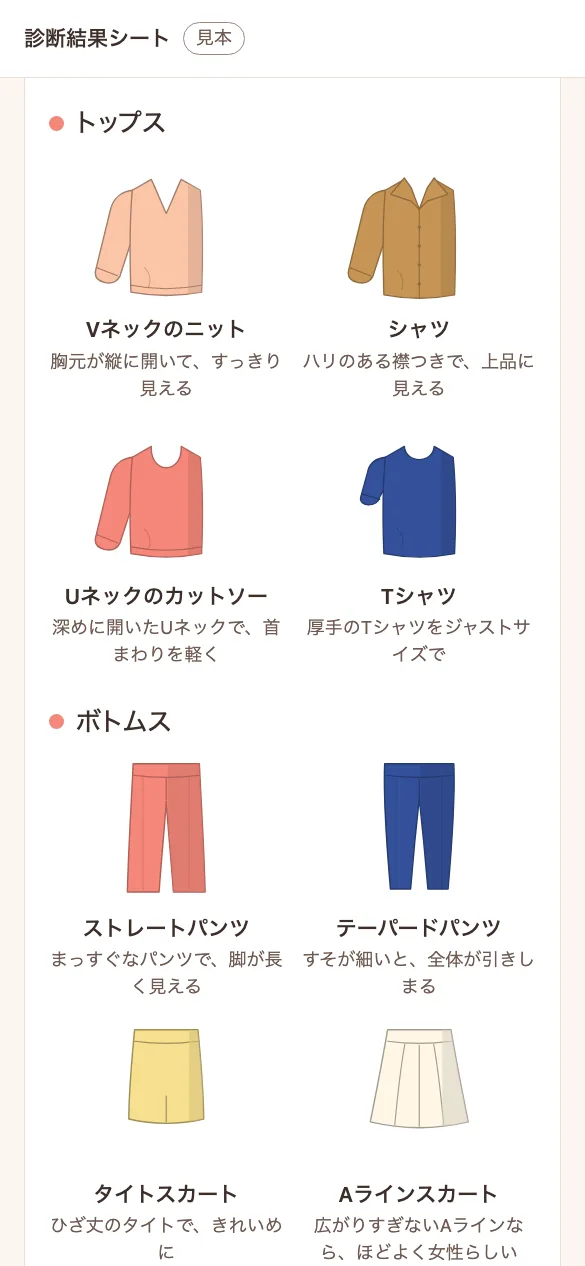
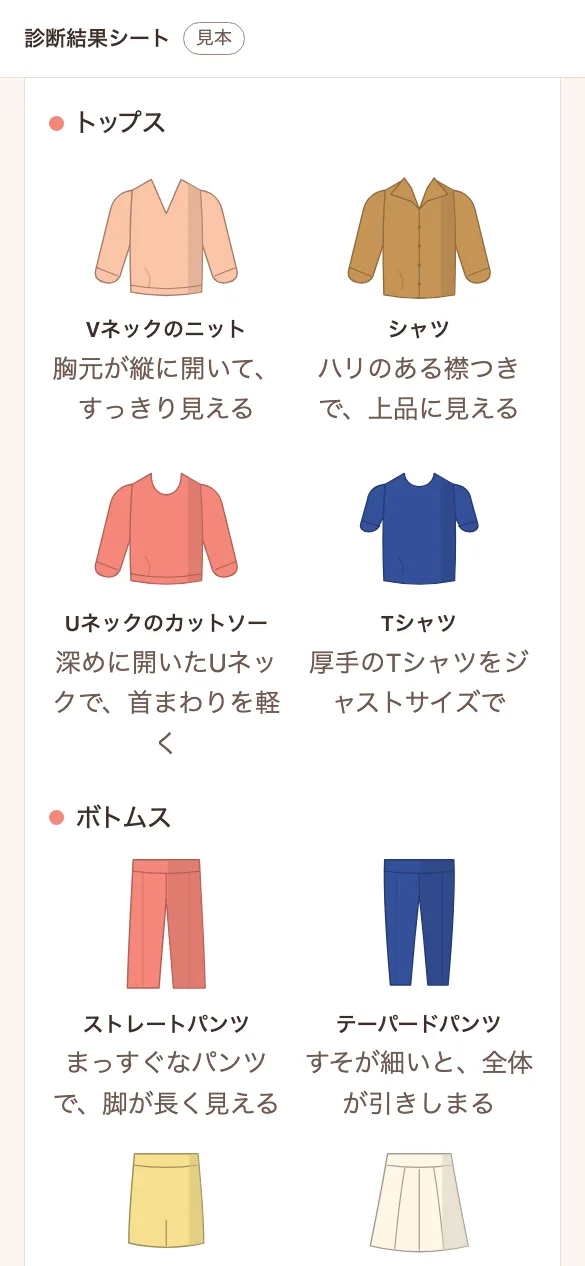
診断結果シートの事例: 画像3枚を撮り直し、見出しの区切りとカードの文を直した

diff --git a/cases/diagnosis-sheet.html b/cases/diagnosis-sheet.html
@@ -236,9 +236,9 @@ footer small{grid-column:1/-1;padding-top:var(--sp-5);border-top:1px solid var(-
         <div class="sec-title"><p class="en"><span class="no">02</span>Features</p><h2>作ったもの</h2></div>
         <ul class="features">
           <li><figure><img src="../assets/diagnosis-sheet_input.webp" alt="結果を入力する画面。お客様の呼び名と診断日、診断の種類（パーソナルカラー・骨格・顔タイプ診断）を選ぶ欄" width="585" height="1266" loading="lazy"><figcaption><h3><span class="ph">結果を選ぶだけで</span><span class="ph">入力できる</span></h3><p>診断の種類と結果を選び、ベストカラー・苦手になりやすい色・似合う形や素材・ひと言メモを入れます。入力すると、お客様用のシートがすぐに変わります。</p></figcaption></figure></li>
-          <li><figure><img src="../assets/diagnosis-sheet_sheet.webp" alt="結果シートの画面。髪型とメイクの色を映した顔のイラストの下に、髪の色・アイシャドウ・ネイル・チークの色見本が並ぶ" width="585" height="1266" loading="lazy"><figcaption><h3><span class="ph">イラスト入りのシートが</span><span class="ph">自動でできる</span></h3><p>選んだタイプに合わせて、髪型と、髪・メイク・アクセサリーの色を、顔のイラストと色見本で示します。色見本・色の特徴とあわせて、シートの1枚目になります。</p></figcaption></figure></li>
+          <li><figure><img src="../assets/diagnosis-sheet_sheet.webp" alt="結果シートの画面。髪型とメイクの色を映した顔のイラストの下に、髪の色・アイシャドウ・ネイル・チークの色見本が並ぶ" width="585" height="1266" loading="lazy"><figcaption><h3><span class="ph">イラスト入りの</span><span class="ph">シートが</span><span class="ph">自動でできる</span></h3><p>選んだタイプに合わせて、髪型と、髪・メイク・アクセサリーの色を、顔のイラストと色見本で示します。色見本・色の特徴とあわせて、シートの1枚目になります。</p></figcaption></figure></li>
           <li><figure><img src="../assets/diagnosis-sheet_wear.webp" alt="結果シートの画面。Vネックのニットやシャツなどのトップスと、ストレートパンツなどのボトムスのイラストが、ひと言の説明つきで並ぶ" width="585" height="1266" loading="lazy"><figcaption><h3><span class="ph">似合う服を、</span><span class="ph">絵の一覧で見せる</span></h3><p>骨格のタイプに合わせて、体型の図と、トップス・ボトムス・アウター・ワンピースの絵を、ひと言の説明つきで並べます。小物と、素材・柄の見本も載ります。</p></figcaption></figure></li>
-          <li><figure><img src="../assets/diagnosis-sheet_coord.webp" alt="結果シートの画面。基本の色とアクセントの色の色見本と、ニットとパンツを合わせたコーディネートのイラスト" width="585" height="1266" loading="lazy"><figcaption><h3><span class="ph">コーディネートの例を</span><span class="ph">3つ載せる</span></h3><p>パンツ・スカート・ワンピースの3つのコーディネートを、絵と品名で載せます。形は骨格のタイプ、色はパーソナルカラーのタイプから決まります。</p></figcaption></figure></li>
+          <li><figure><img src="../assets/diagnosis-sheet_coord.webp" alt="結果シートの画面。基本の色とアクセントの色の色見本と、ニットとパンツを合わせたコーディネートのイラスト" width="585" height="1266" loading="lazy"><figcaption><h3><span class="ph">コーディネートの</span><span class="ph">例を</span><span class="ph">3つ載せる</span></h3><p>パンツ・スカート・ワンピースの3つのコーディネートを、絵と品名で載せます。形は骨格のタイプ、色はパーソナルカラーのタイプから決まります。</p></figcaption></figure></li>
           <li><figure><img src="../assets/diagnosis-sheet_look.webp" alt="イラストを選ぶ画面。顔のイラストの下に、ショート・ボブ・ミディアムなどの髪型の絵と、髪の色の候補が並ぶ" width="585" height="1266" loading="lazy"><figcaption><h3><span class="ph">絵や色は、</span><span class="ph">あとから選び直せる</span></h3><p>絵は自動でできますが、変えたい所だけ、髪型・メイクの色・服の絵を押して選び直せます。お客様に合わせた調整が、選ぶだけで済みます。</p></figcaption></figure></li>
           <li><figure><img src="../assets/diagnosis-sheet_message.webp" alt="お客様に送る文の画面。LINEとメールを切りかえられ、お客様の名前と診断結果が入った下書きが出ている" width="585" height="1266" loading="lazy"><figcaption><h3><span class="ph">送るときの一言を</span><span class="ph">下書きする</span></h3><p>LINE用とメール用（件名つき）の文を、お客様の名前と診断結果を入れて作ります。その場で直して、コピーできます。このアプリからは送りません。</p></figcaption></figure></li>
         </ul>

diff --git a/portfolio/cases/diagnosis-sheet.html b/portfolio/cases/diagnosis-sheet.html
@@ -230,9 +230,9 @@ footer small{font-family:var(--en);font-size:var(--fs-label);letter-spacing:.1em
         <div class="sec-title"><p class="en"><span class="no">02</span>Features</p><h2>作ったもの</h2></div>
         <ul class="features">
           <li><figure><img src="../assets/diagnosis-sheet_input.webp" alt="結果を入力する画面。お客様の呼び名と診断日、診断の種類（パーソナルカラー・骨格・顔タイプ診断）を選ぶ欄" width="585" height="1266" loading="lazy"><figcaption><h3><span class="ph">結果を選ぶだけで</span><span class="ph">入力できる</span></h3><p>診断の種類と結果を選び、ベストカラー・苦手になりやすい色・似合う形や素材・ひと言メモを入れます。入力すると、お客様用のシートがすぐに変わります。</p></figcaption></figure></li>
-          <li><figure><img src="../assets/diagnosis-sheet_sheet.webp" alt="結果シートの画面。髪型とメイクの色を映した顔のイラストの下に、髪の色・アイシャドウ・ネイル・チークの色見本が並ぶ" width="585" height="1266" loading="lazy"><figcaption><h3><span class="ph">イラスト入りのシートが</span><span class="ph">自動でできる</span></h3><p>選んだタイプに合わせて、髪型と、髪・メイク・アクセサリーの色を、顔のイラストと色見本で示します。色見本・色の特徴とあわせて、シートの1枚目になります。</p></figcaption></figure></li>
+          <li><figure><img src="../assets/diagnosis-sheet_sheet.webp" alt="結果シートの画面。髪型とメイクの色を映した顔のイラストの下に、髪の色・アイシャドウ・ネイル・チークの色見本が並ぶ" width="585" height="1266" loading="lazy"><figcaption><h3><span class="ph">イラスト入りの</span><span class="ph">シートが</span><span class="ph">自動でできる</span></h3><p>選んだタイプに合わせて、髪型と、髪・メイク・アクセサリーの色を、顔のイラストと色見本で示します。色見本・色の特徴とあわせて、シートの1枚目になります。</p></figcaption></figure></li>
           <li><figure><img src="../assets/diagnosis-sheet_wear.webp" alt="結果シートの画面。Vネックのニットやシャツなどのトップスと、ストレートパンツなどのボトムスのイラストが、ひと言の説明つきで並ぶ" width="585" height="1266" loading="lazy"><figcaption><h3><span class="ph">似合う服を、</span><span class="ph">絵の一覧で見せる</span></h3><p>骨格のタイプに合わせて、体型の図と、トップス・ボトムス・アウター・ワンピースの絵を、ひと言の説明つきで並べます。小物と、素材・柄の見本も載ります。</p></figcaption></figure></li>
-          <li><figure><img src="../assets/diagnosis-sheet_coord.webp" alt="結果シートの画面。基本の色とアクセントの色の色見本と、ニットとパンツを合わせたコーディネートのイラスト" width="585" height="1266" loading="lazy"><figcaption><h3><span class="ph">コーディネートの例を</span><span class="ph">3つ載せる</span></h3><p>パンツ・スカート・ワンピースの3つのコーディネートを、絵と品名で載せます。形は骨格のタイプ、色はパーソナルカラーのタイプから決まります。</p></figcaption></figure></li>
+          <li><figure><img src="../assets/diagnosis-sheet_coord.webp" alt="結果シートの画面。基本の色とアクセントの色の色見本と、ニットとパンツを合わせたコーディネートのイラスト" width="585" height="1266" loading="lazy"><figcaption><h3><span class="ph">コーディネートの</span><span class="ph">例を</span><span class="ph">3つ載せる</span></h3><p>パンツ・スカート・ワンピースの3つのコーディネートを、絵と品名で載せます。形は骨格のタイプ、色はパーソナルカラーのタイプから決まります。</p></figcaption></figure></li>
           <li><figure><img src="../assets/diagnosis-sheet_look.webp" alt="イラストを選ぶ画面。顔のイラストの下に、ショート・ボブ・ミディアムなどの髪型の絵と、髪の色の候補が並ぶ" width="585" height="1266" loading="lazy"><figcaption><h3><span class="ph">絵や色は、</span><span class="ph">あとから選び直せる</span></h3><p>絵は自動でできますが、変えたい所だけ、髪型・メイクの色・服の絵を押して選び直せます。お客様に合わせた調整が、選ぶだけで済みます。</p></figcaption></figure></li>
           <li><figure><img src="../assets/diagnosis-sheet_message.webp" alt="お客様に送る文の画面。LINEとメールを切りかえられ、お客様の名前と診断結果が入った下書きが出ている" width="585" height="1266" loading="lazy"><figcaption><h3><span class="ph">送るときの一言を</span><span class="ph">下書きする</span></h3><p>LINE用とメール用（件名つき）の文を、お客様の名前と診断結果を入れて作ります。その場で直して、コピーできます。このアプリからは送りません。</p></figcaption></figure></li>
         </ul>

diff --git a/index.html b/index.html
@@ -501,7 +501,7 @@ footer small{grid-column:1/-1;padding-top:var(--sp-5);border-top:1px solid var(-
           <div class="work-body">
             <span class="tag">WEB APP</span>
             <h3><span class="ph">結果をまとめて</span><span class="ph">お客様へ届ける</span><span class="ph">アプリ</span></h3>
-            <p>個別サービスの提供後に、お客様ごとの結果をまとめて届ける流れを整えた事例です。パーソナルカラーや骨格などの診断を題材に、イラスト入りの結果シートと送る文の下書きを作るWebアプリを制作しました。髪型・メイクの色・洋服のコーディネートの絵は、選んだタイプに合わせて自動でできます。シートはスマホで見やすく、PDFにも保存できます。ポートフォリオ用の架空の案件で、画面は架空のデータで表示しています。</p>
+            <p>個別サービスの提供後に、お客様ごとの結果をまとめて届ける流れを整えた事例です。パーソナルカラーや骨格などの診断を題材に、イラスト入りの結果シートと送る文の下書きを作るWebアプリを制作しました。診断の結果を選ぶと、髪型・メイクの色・洋服のコーディネートの絵が自動でできます。シートはスマホで見やすく、PDFにも保存できます。ポートフォリオ用の架空の案件で、画面は架空のデータで表示しています。</p>
             <dl><dt>使用技術</dt><dd>HTML・CSS・JavaScript</dd><dt>担当</dt><dd>企画・設計・開発・テスト</dd><dt>納品物</dt><dd>Webアプリ一式</dd></dl>
             <span class="more">事例を見る <span class="arr" aria-hidden="true"></span></span>
           </div>
